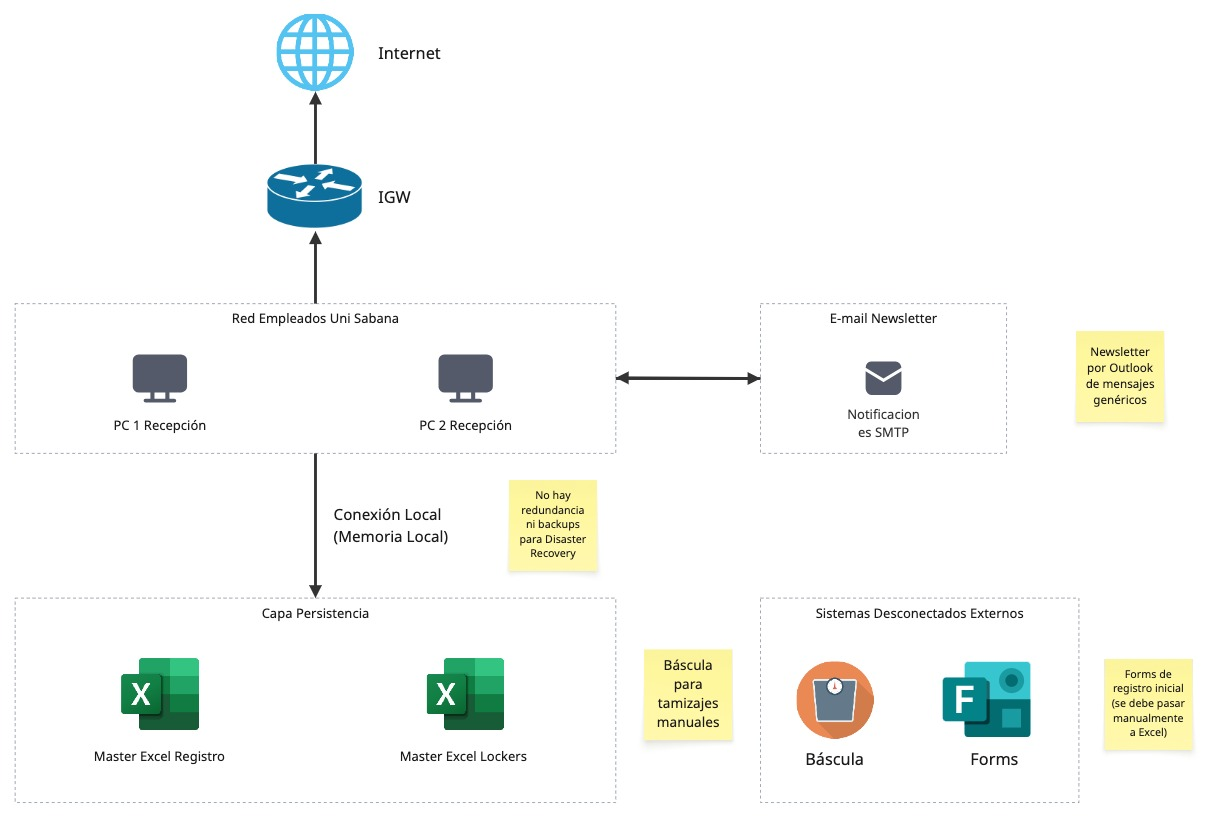
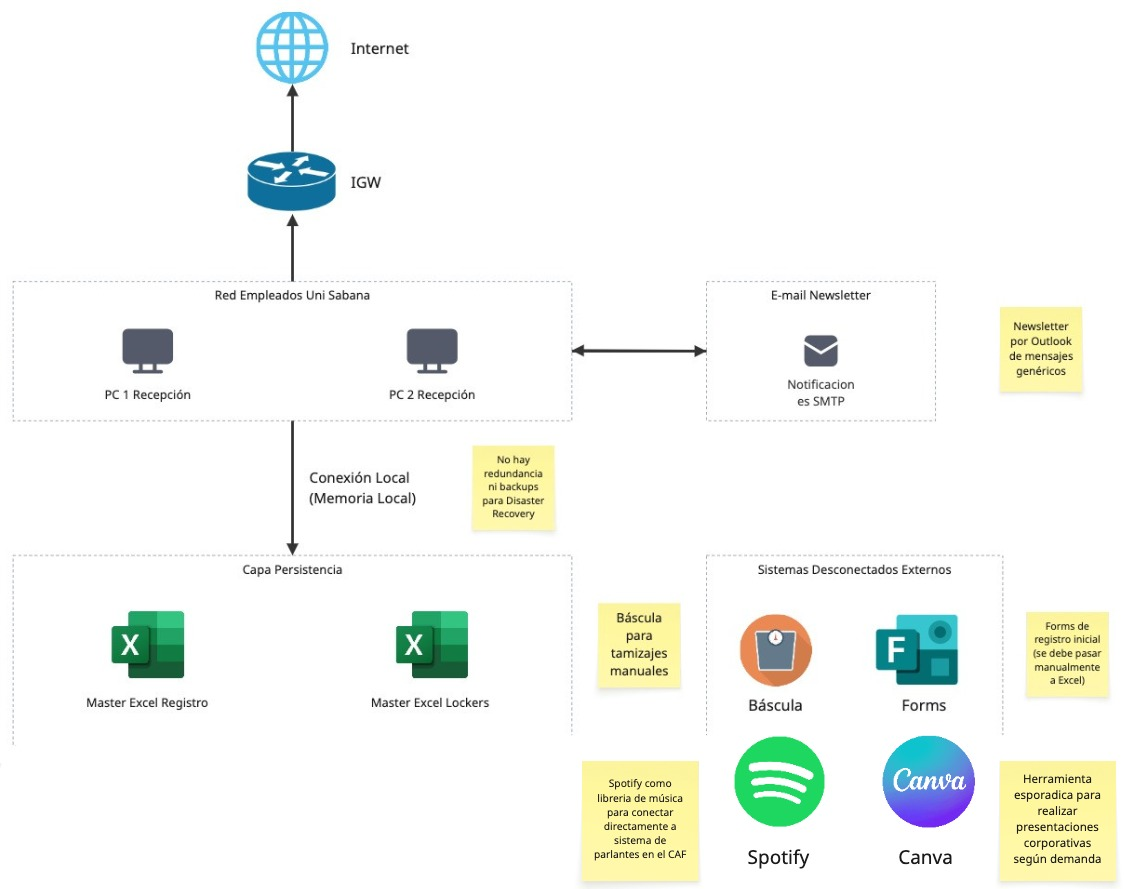
Add extra disconnected services
Spotify and Canva

diff --git a/Taller 4 - Infraestructura/Entrega/informe.md b/Taller 4 - Infraestructura/Entrega/informe.md
@@ -5,6 +5,13 @@
 - Axel Ariza
 
 
+## Integrantes
+- Juan Pablo Corral
+- Felipe Camargo
+- Axel Ariza
+
+---
+
 ## 1. Contexto General
 
 El CAF de la Universidad de La Sabana cuenta con una infraestructura tecnológica mínima para soportar sus operaciones. Actualmente, la gestión de usuarios, lockers y registros de entrada/salida se realiza de forma manual utilizando archivos Excel locales, con dos computadores conectados a la red general de empleados de la universidad.
@@ -13,6 +20,8 @@ Los servicios adicionales incluyen:
 - **Google Forms** para el registro inicial de nuevos usuarios.
 - **Correo electrónico institucional** para notificaciones manuales y un newsletter enviado desde el sistema central de la universidad.
 - **Báscula de tamizaje** desconectada de la red, con registro manual en Excel.
+- **Spotify**, utilizado en los computadores para reproducir música en los parlantes del CAF.
+- **Canva**, usado ocasionalmente por empleados para elaborar presentaciones corporativas o administrativas bajo demanda.
 
 El CAF depende completamente de la infraestructura central de TI de la universidad, sin contar con recursos dedicados propios.
 
@@ -21,24 +30,28 @@ El CAF depende completamente de la infraestructura central de TI de la universid
 ## 2. Debilidades y Cuellos de Botella Identificados
 
 1. **Dependencia de Excels locales**
-    - No existe un sistema centralizado ni en la nube.
-    - Riesgo de pérdida de datos por errores humanos, fallas del PC o ausencia de respaldos.
+   - No existe un sistema centralizado ni en la nube.
+   - Riesgo de pérdida de datos por errores humanos, fallas del PC o ausencia de respaldos.
 
 2. **Ausencia de respaldo y recuperación (Disaster Recovery)**
-    - No hay redundancia en la información.
-    - Los datos se almacenan en memoria local sin políticas claras de backup.
+   - No hay redundancia en la información.
+   - Los datos se almacenan en memoria local sin políticas claras de backup.
 
 3. **Falta de automatización en procesos críticos**
-    - Registro manual de entradas/salidas y llaves de lockers genera lentitud y posibilidad de errores.
-    - El tamizaje de la báscula no se integra con los sistemas digitales, aumentando la duplicidad de trabajo.
+   - Registro manual de entradas/salidas y llaves de lockers genera lentitud y posibilidad de errores.
+   - El tamizaje de la báscula no se integra con los sistemas digitales, aumentando la duplicidad de trabajo.
 
 4. **Dependencia total de la red central de la universidad**
-    - No existe segmentación o subneteo para el CAF.
-    - Vulnerabilidad potencial en seguridad y disponibilidad.
+   - No existe segmentación o subneteo para el CAF.
+   - Vulnerabilidad potencial en seguridad y disponibilidad.
 
 5. **Uso limitado de servicios digitales modernos**
-    - El Google Forms es un “microservicio” útil, pero aislado.
-    - No hay integración con bases de datos, CRM o sistemas de reservas.
+   - El Google Forms es un “microservicio” útil, pero aislado.
+   - No hay integración con bases de datos, CRM o sistemas de reservas.
+
+6. **Sistemas desconectados sin integración con la operación principal**
+   - Spotify, aunque útil para la experiencia de usuario, no está integrado en la arquitectura de TI.
+   - Canva se utiliza de manera aislada, sin un flujo estandarizado dentro de los procesos administrativos.
 
 ---
 
@@ -51,6 +64,7 @@ Su arquitectura es **on-premise dependiente**, con dos PCs y almacenamiento loca
 - **Escalabilidad:** Nula, ya que los Excels no soportan múltiples usuarios concurrentes ni trazabilidad robusta.
 - **Seguridad:** Limitada, pues no hay control de accesos digitales ni políticas de respaldo.
 - **Disponibilidad:** Dependiente de la red universitaria; en caso de falla de red o del PC, las operaciones se detienen.
+- **Flexibilidad:** Los sistemas desconectados (Spotify, Canva, báscula) funcionan de manera aislada y no aportan a la gestión centralizada de información.
 
 ---
 
@@ -81,6 +95,8 @@ Para superar las limitaciones actuales, se recomiendan **buenas prácticas** ins
 
 El CAF opera actualmente con un esquema simple y manual, adecuado solo para baja escala. Sin embargo, existen **riesgos altos en términos de seguridad, disponibilidad y confiabilidad de la información**.
 
-La transición hacia un modelo **híbrido (on-premise + cloud)** con almacenamiento centralizado, respaldo automático y herramientas digitales ligeras permitiría mejorar la eficiencia, reducir errores humanos y aumentar la confiabilidad de los datos, alineándose con las buenas prácticas modernas de arquitectura de infraestructura.
+La transición hacia un modelo **híbrido (on-premise + cloud)** con almacenamiento centralizado, respaldo automático y herramientas digitales ligeras permitiría mejorar la eficiencia, reducir errores humanos y aumentar la confiabilidad de los datos.
+
+Los sistemas desconectados como **Spotify** y **Canva** aportan valor al ambiente y comunicación del CAF, pero deberían incluirse en la documentación de infraestructura como **soportes auxiliares no críticos**, reforzando la visión integral de la arquitectura tecnológica.
 
 ---
